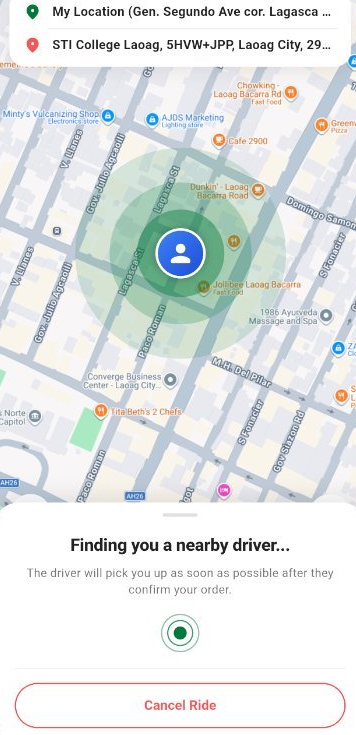
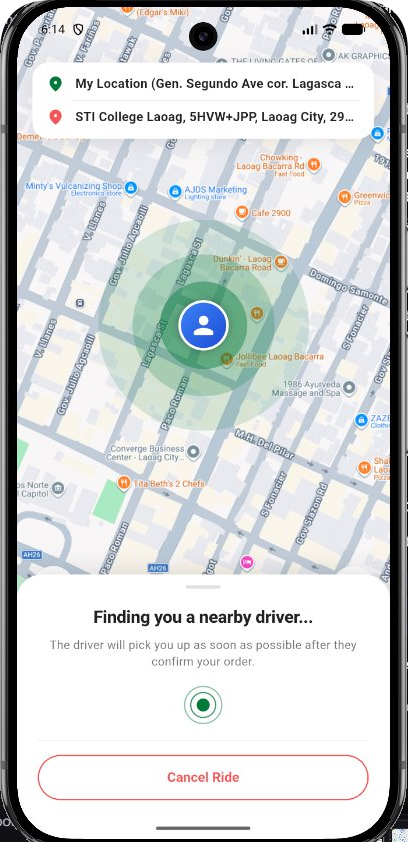
fix(onboarding): preserve complete phone chassis from screenshot without clipping or artificial borders

diff --git a/mobile_client/lib/features/auth/views/welcome_onboarding_screen.dart b/mobile_client/lib/features/auth/views/welcome_onboarding_screen.dart
@@ -321,7 +321,7 @@ class _WhiteScoopClipper extends CustomClipper<Path> {
 }
 
 // ---------------------------------------------------------------------------
-// Passenger App Screen Hero (Direct screenshot display without borders)
+// Passenger App Screen Hero (Direct phone screenshot display without clipping)
 // ---------------------------------------------------------------------------
 class _ImmersivePhoneMockup extends StatelessWidget {
   final int currentPage;
@@ -330,24 +330,9 @@ class _ImmersivePhoneMockup extends StatelessWidget {
 
   @override
   Widget build(BuildContext context) {
-    return Container(
-      decoration: BoxDecoration(
-        borderRadius: const BorderRadius.vertical(top: Radius.circular(32)),
-        boxShadow: [
-          BoxShadow(
-            color: Colors.black.withValues(alpha: 0.18),
-            blurRadius: 20,
-            offset: const Offset(0, 8),
-          ),
-        ],
-      ),
-      child: ClipRRect(
-        borderRadius: const BorderRadius.vertical(top: Radius.circular(32)),
-        child: AnimatedSwitcher(
-          duration: const Duration(milliseconds: 250),
-          child: _buildScreenContent(currentPage),
-        ),
-      ),
+    return AnimatedSwitcher(
+      duration: const Duration(milliseconds: 250),
+      child: _buildScreenContent(currentPage),
     );
   }
 
